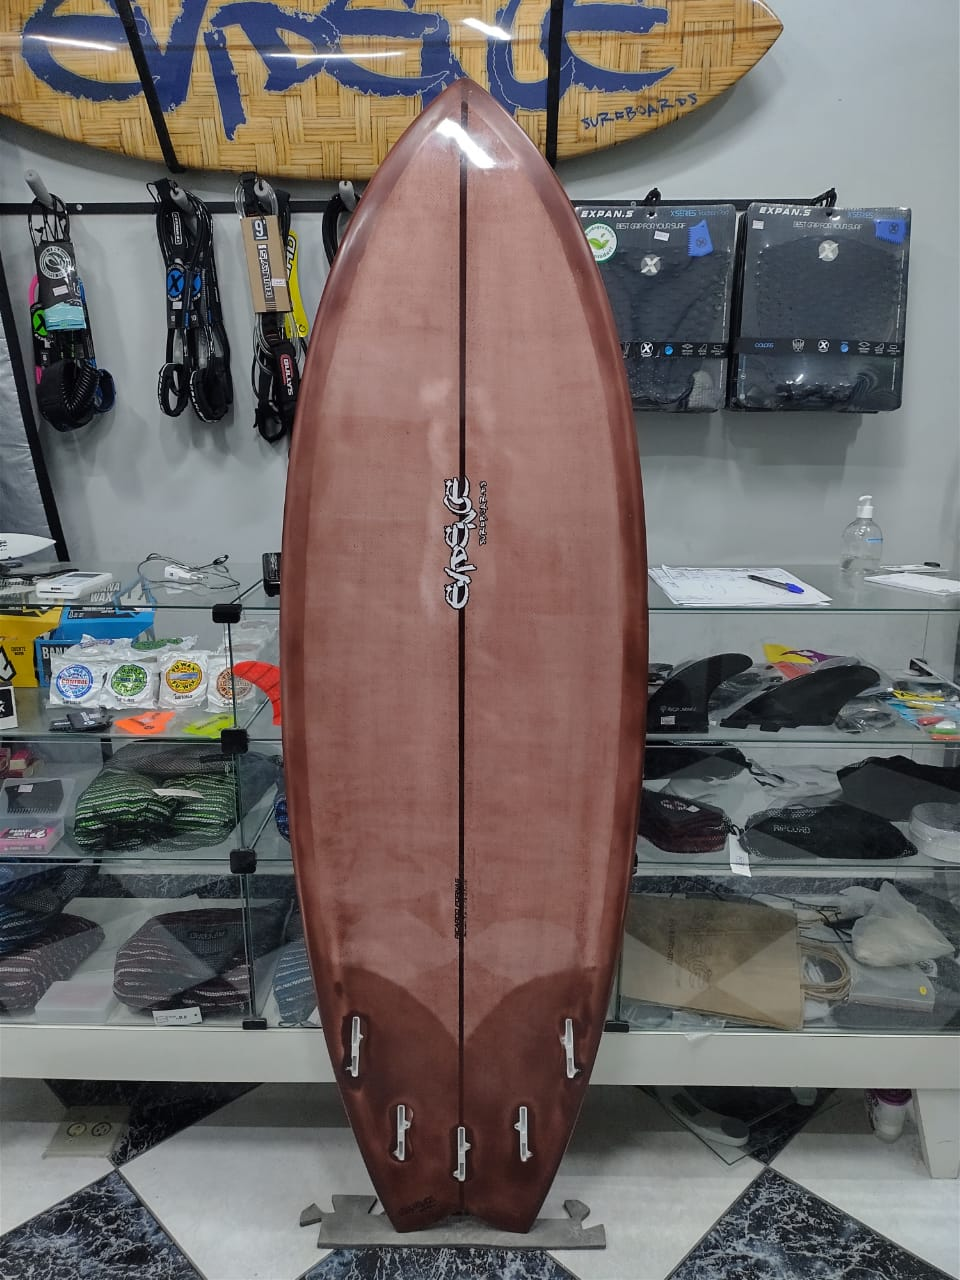
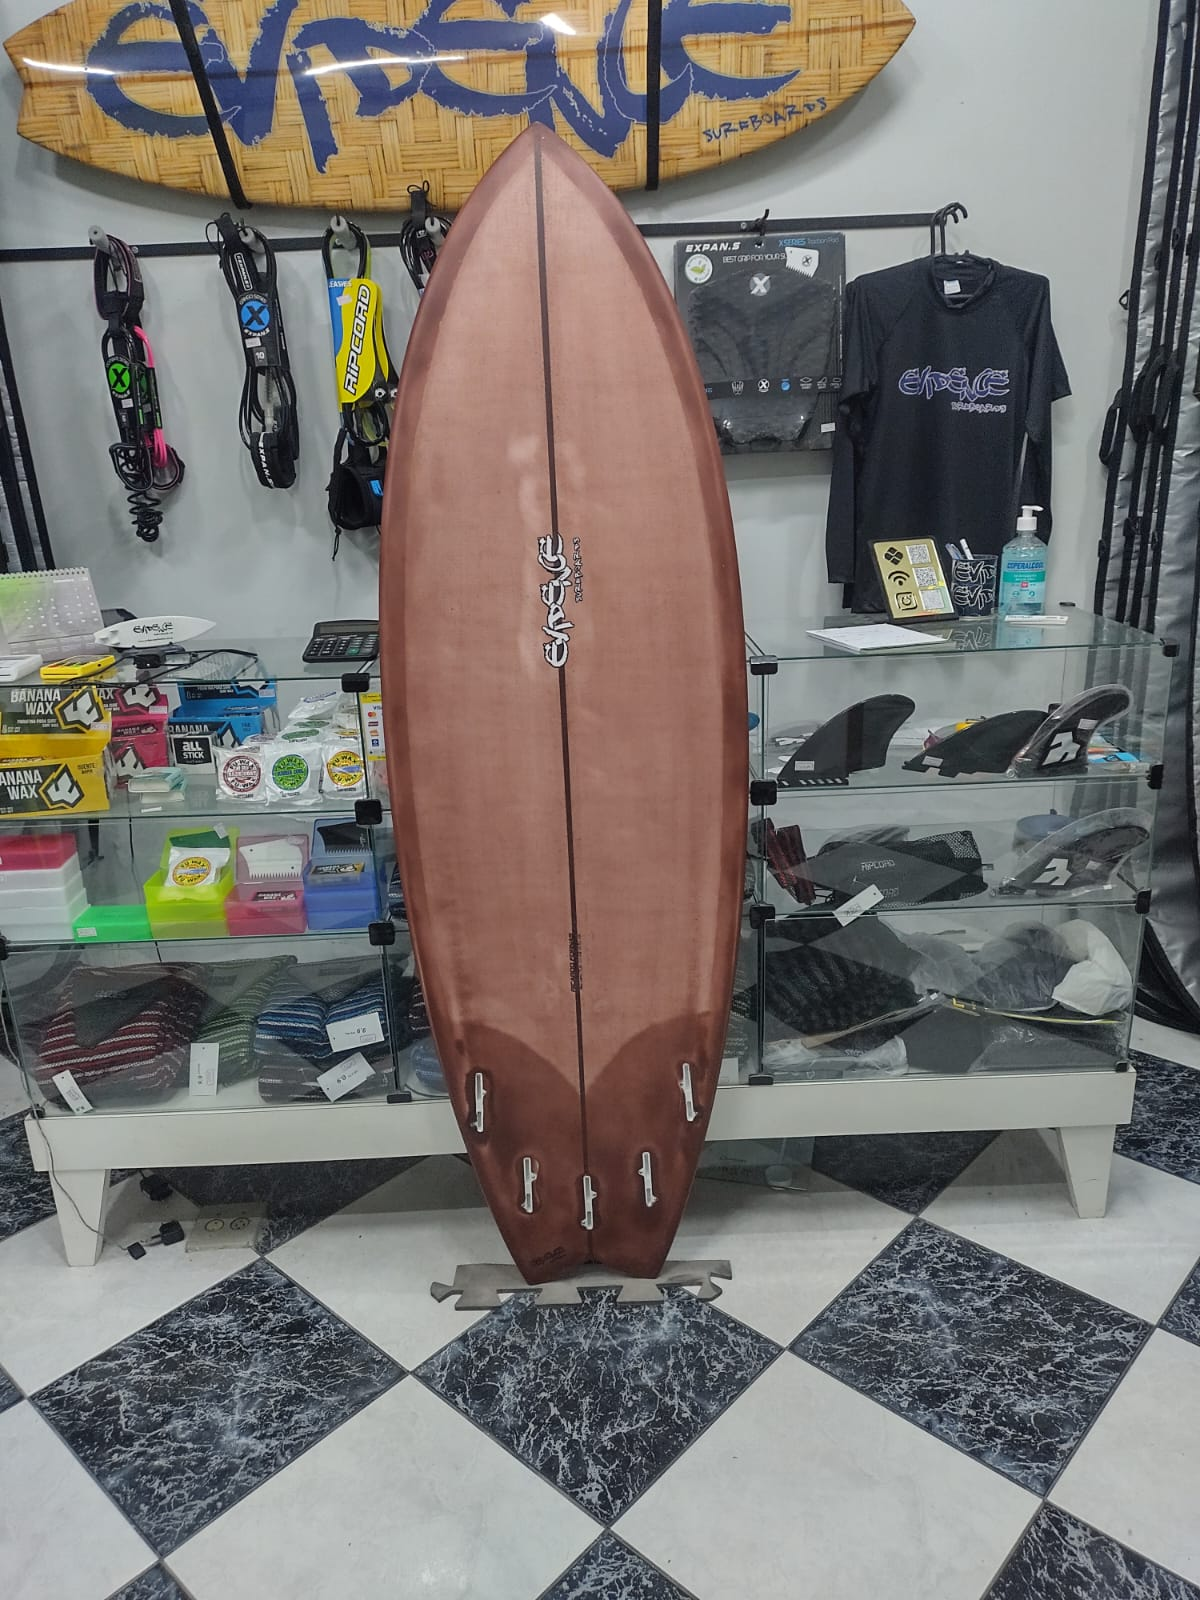
Realizada inclusão de pranchas na sessão 'Pronta entrega'.

diff --git a/pronta-entrega/pronta-entrega.html b/pronta-entrega/pronta-entrega.html
@@ -953,6 +953,18 @@
 								<div class="carousel-item">
 									<img class="d-block w-100" src="./images/pranchas/39-bottom.jpeg" alt="Second slide">
 								</div>
+								<div class="carousel-item">
+									<img class="d-block w-100" src="./images/pranchas/39-side.jpeg" alt="Second slide">
+								</div>
+								<div class="carousel-item">
+									<img class="d-block w-100" src="./images/pranchas/39-side-1.jpeg" alt="Second slide">
+								</div>
+								<div class="carousel-item">
+									<img class="d-block w-100" src="./images/pranchas/39-side2.jpeg" alt="Second slide">
+								</div>
+								<div class="carousel-item">
+									<img class="d-block w-100" src="./images/pranchas/39-side3.jpeg" alt="Second slide">
+								</div>
 							</div>
 							<a class="carousel-control-prev" href="#boardSlide39" role="button" data-slide="prev">
 								<span class="carousel-control-prev-icon" aria-hidden="true"></span>
